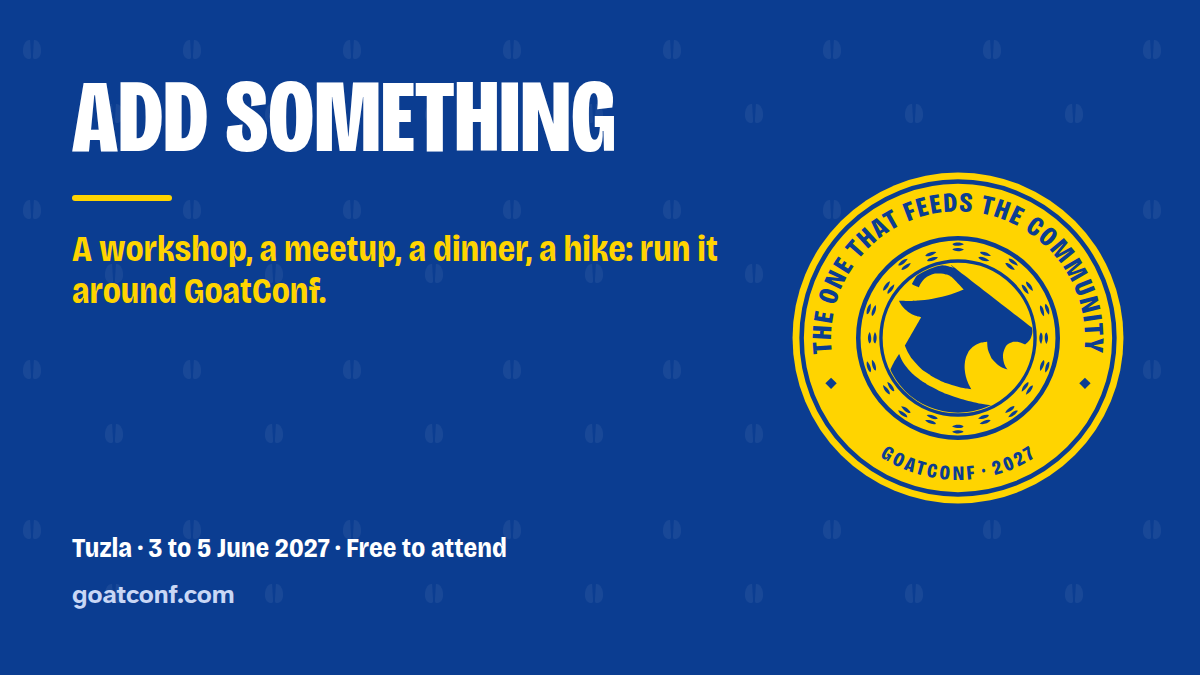
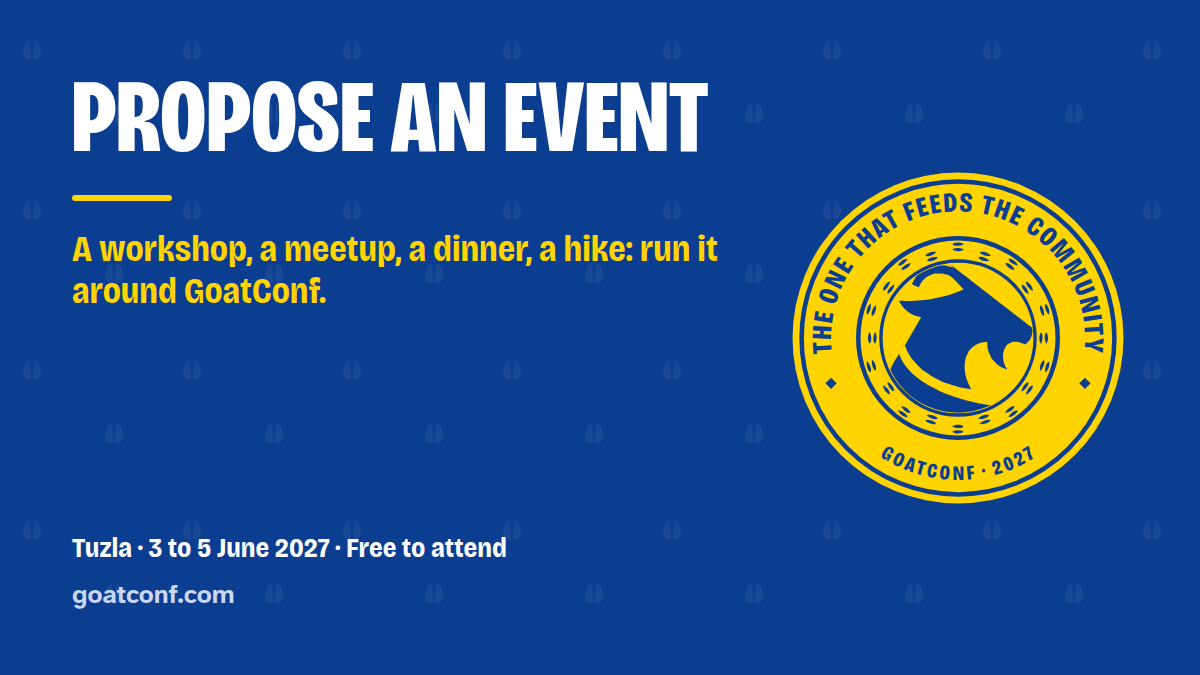
events: only accepted events are part of GoatConf; hackathons; "Propose an event"
The organiser accepts an event only if it follows the code of conduct
and the charter and fits the program. A record carries accepted: yes,
set by the organiser; only accepted events are listed on the events page,
the program, program.json and llms.txt, named "part of GoatConf 2027"
and run by their host. Hackathons are a kind of their own, organised
entirely by whoever proposes them. The add page, the charter, the home
page and the drumbeat say so, and "Add something" becomes "Propose an
event" everywhere, its share image included. The extension decision
has the amendment.

Source: sources/conversations/2026-10-12--org--accepted-events-and-hackathons.md.

Changed region(s): [[0.0617, 0.0933, 0.5858, 0.2489]]

diff --git a/files/site/add.html b/files/site/add.html
@@ -3,7 +3,7 @@
 <head>
 <meta charset="utf-8">
 <meta name="viewport" content="width=device-width, initial-scale=1">
-<title>Add something: GoatConf 2027</title>
+<title>Propose an event: GoatConf 2027</title>
 <meta name="description" content="Add a workshop, a meetup, a dinner, a walk or support around GoatConf 2027 in Tuzla, 3 to 5 June. You run it, GoatConf lists it.">
 <meta name="theme-color" content="#0b3d91">
 <link rel="canonical" href="https://goatconf.com/add.html">
@@ -12,7 +12,7 @@
 <!-- link preview -->
 <meta property="og:type" content="website">
 <meta property="og:site_name" content="GoatConf">
-<meta property="og:title" content="Add something: GoatConf 2027">
+<meta property="og:title" content="Propose an event: GoatConf 2027">
 <meta property="og:description" content="Add a workshop, a meetup, a dinner, a walk or support around GoatConf 2027 in Tuzla, 3 to 5 June. You run it, GoatConf lists it.">
 <meta property="og:url" content="https://goatconf.com/add.html">
 <meta property="og:image" content="https://goatconf.com/share/og.png">
@@ -55,11 +55,11 @@
 <!-- /topbar -->
 <header class="page-head">
   <img class="page-head__photo" src="img/city-old-town-aerial-paving.jpg" width="1375" height="696" alt="The old town from above: tiled roofs and a street paved in a red and blue mosaic" decoding="async">
-  <h1 class="sign">Add something</h1>
-  <p class="lede">A workshop, a meetup, a dinner, a walk, a corner for your community. You run it, GoatConf lists it and sends people your way.</p>
+  <h1 class="sign">Propose an event</h1>
+  <p class="lede">A workshop, a meetup, a hackathon, a dinner, a walk, or support for one named thing. You run it and pay for it; if the organiser accepts it, it becomes part of GoatConf 2027.</p>
 </header>
 <main id="main" class="prose">
-<p class="cta"><a class="button" data-form="add" href="https://docs.google.com/forms/d/e/1FAIpQLScZK2BJcsBY2W5lpSljaflGsPdimruLAfmK9MizR0EIcgWfXg/viewform">Add your event</a><span>Open now. It takes about ten minutes.</span></p>
+<p class="cta"><a class="button" data-form="add" href="https://docs.google.com/forms/d/e/1FAIpQLScZK2BJcsBY2W5lpSljaflGsPdimruLAfmK9MizR0EIcgWfXg/viewform">Propose your event</a><span>Open now. It takes about ten minutes.</span></p>
 <h2>What you can add</h2>
 <ul>
 <li><strong>A fringe event:</strong> an evening event around the talk days, such as a meetup, a dinner or a party.</li>
@@ -70,20 +70,21 @@
 <li><strong>Support:</strong> pay a supplier directly for one named thing. For example a speaker's flight or room, a round of coffee, the printing or a camera crew. Your logo goes on the <a href="supporters.html">supporters page</a>. If you paid a speaker's travel, it also goes on their profile. No money passes through the organiser. Every payment is listed in the <a href="budget.html">public budget</a>.</li>
 <li><strong>A podcast or a camera:</strong> bring your own and record. Podcasts are welcome in some of the rooms. GoatConf does not record the talks itself, so a crew, paid for by a supporter, is welcome too.</li>
 <li><strong>Hiring:</strong> meet the people who come.</li>
+<li><strong>A hackathon:</strong> you, your group or your company organise all of it: the room, the theme, the judging, any prizes and their costs, paid directly to suppliers. It follows the same rules as everything else, and may not collect attendees' data or recruit beyond what people opt into.</li>
 </ul>
 <h2>The rules</h2>
-<p>You run it and you pay for it. It follows the <a href="code-of-conduct.html">code of conduct</a> and the <a href="charter.html">charter</a>. Its name says it is run independently, for example "Rust night, a GoatConf fringe event". It takes place between about 25 May and 20 June 2027. If not, say why in the description.</p>
+<p>Not everything people propose becomes part of GoatConf. The organiser accepts what follows the <a href="code-of-conduct.html">code of conduct</a> and the <a href="charter.html">charter</a> and fits the program: its time, its place, who it is for and how it sits next to the talks. Only accepted events are part of GoatConf 2027, listed on the site and shared with the people who come. You run it and you pay for it, and its name says who runs it, for example "Rust night, part of GoatConf 2027". It takes place between about 25 May and 20 June 2027; if not, say why in the description. Anything not accepted may still happen, but not under GoatConf's name.</p>
 <h2>What happens next</h2>
 <ol>
 <li><strong>You fill in the form:</strong> the name, the kind, the host, where, when, the cost, how people join, who pays, a public contact and a short description.</li>
-<li><strong>The organiser checks it</strong> against the charter and the code of conduct, and writes back.</li>
-<li><strong>It goes on the site,</strong> on the page <a href="extensions.html">Added by the people who come</a>. If it is between 2 and 6 June, it also goes on the <a href="program.html">program</a>.</li>
+<li><strong>The organiser decides</strong> whether it becomes part of GoatConf, may ask for changes, and writes back either way.</li>
+<li><strong>If accepted, it goes on the site,</strong> on the page <a href="extensions.html">Added by the people who come</a>. If it is between 2 and 6 June, it also goes on the <a href="program.html">program</a>.</li>
 </ol>
 <p class="cta"><a class="button" data-form="add" href="https://docs.google.com/forms/d/e/1FAIpQLScZK2BJcsBY2W5lpSljaflGsPdimruLAfmK9MizR0EIcgWfXg/viewform">Add your event</a></p>
 </main>
 <footer class="footer">
   <p>GoatConf 2027, a free conference in Tuzla, Bosnia and Herzegovina, 3 to 5 June 2027. Organised by <a href="https://muhamed.at">Muhamed Isabegović</a>, with IPI Academy as host and partner.</p>
-  <p class="footer__links"><a href="index.html">Home</a> <a href="program.html">Program</a> <a href="speakers.html">Speakers</a> <a href="talk.html">Give a talk</a> <a href="add.html">Add something</a> <a href="register.html">Register</a> <a href="travel.html">Travel</a> <a href="supporters.html">Supporters</a> <a href="budget.html">Budget</a> <a href="charter.html">Charter</a> <a href="code-of-conduct.html">Code of conduct</a> <a href="brand.html">Brand</a> <a href="access.html">Accessibility</a> <a href="contact.html">Contact</a></p>
+  <p class="footer__links"><a href="index.html">Home</a> <a href="program.html">Program</a> <a href="speakers.html">Speakers</a> <a href="talk.html">Give a talk</a> <a href="add.html">Propose an event</a> <a href="register.html">Register</a> <a href="travel.html">Travel</a> <a href="supporters.html">Supporters</a> <a href="budget.html">Budget</a> <a href="charter.html">Charter</a> <a href="code-of-conduct.html">Code of conduct</a> <a href="brand.html">Brand</a> <a href="access.html">Accessibility</a> <a href="contact.html">Contact</a></p>
 </footer>
 <script src="album.js" defer></script>
 </body>

diff --git a/files/site/index.html b/files/site/index.html
@@ -75,7 +75,7 @@
     <p class="cover-sub">Two days of one-hour sessions in every room, with a full hour off after each. Then a day at the lakes. The people who come add the rest.</p>
     <div class="cover-actions">
       <p><a class="button button--cover" href="register.html">Register for free</a></p>
-      <p class="cover-links"><a class="go" href="talk.html">Propose a talk</a> <a class="go" href="add.html">Add something</a> <a class="go" href="program.html">See the program</a></p>
+      <p class="cover-links"><a class="go" href="talk.html">Propose a talk</a> <a class="go" href="add.html">Propose an event</a> <a class="go" href="program.html">See the program</a></p>
     </div>
   </div>
 
@@ -185,11 +185,11 @@
 </section>
 
 <section class="album-page wrap" id="add" aria-labelledby="add-title">
-  <h2 class="band" id="add-title">Add your own</h2>
+  <h2 class="band" id="add-title">Propose an event</h2>
   <div class="copy copy--wide">
-    <p>Anyone can add an event, like a meetup or a dinner. You run it and pay for it, under the <a href="charter.html">charter</a>. GoatConf lists it and sends people your way.</p>
+    <p>Anyone can propose an event, like a meetup, a hackathon or a dinner. You run it and pay for it. If the organiser accepts it, it becomes part of GoatConf 2027 and is shared with everyone who comes. It follows the <a href="charter.html">charter</a> and the code of conduct.</p>
   </div>
-  <ul class="slots slots--kinds" aria-label="Kinds of things you can add">
+  <ul class="slots slots--kinds" aria-label="Kinds of events you can propose">
     <li class="slot slot--kind"><svg class="ghost" aria-hidden="true" viewBox="0 0 124 100"><use href="#goat"/></svg><span class="num num--printed">28</span><strong>Fringe event</strong><span class="nameline" aria-hidden="true"></span><span class="stamp">Yours?</span></li>
     <li class="slot slot--kind"><svg class="ghost" aria-hidden="true" viewBox="0 0 124 100"><use href="#goat"/></svg><span class="num num--printed">29</span><strong>Workshop</strong><span class="nameline" aria-hidden="true"></span><span class="stamp">Yours?</span></li>
     <li class="slot slot--kind"><svg class="ghost" aria-hidden="true" viewBox="0 0 124 100"><use href="#goat"/></svg><span class="num num--printed">30</span><strong>Community hub</strong><span class="nameline" aria-hidden="true"></span><span class="stamp">Yours?</span></li>
@@ -199,7 +199,7 @@
     <li class="slot slot--kind"><svg class="ghost" aria-hidden="true" viewBox="0 0 124 100"><use href="#goat"/></svg><span class="num num--printed">34</span><strong>Hiring</strong><span class="nameline" aria-hidden="true"></span><span class="stamp">Yours?</span></li>
     <li class="slot slot--kind"><svg class="ghost" aria-hidden="true" viewBox="0 0 124 100"><use href="#goat"/></svg><span class="num num--printed">35</span><strong>Something else?</strong><span class="nameline" aria-hidden="true"></span><span class="stamp">Yours?</span></li>
   </ul>
-  <p class="copy"><a class="go go--ink" href="add.html">Add yours</a> <a class="go go--ink" href="extensions.html">See what people have added</a></p>
+  <p class="copy"><a class="go go--ink" href="add.html">Propose yours</a> <a class="go go--ink" href="extensions.html">See what people have added</a></p>
 </section>
 
 <section class="album-page wrap" id="money" aria-labelledby="money-title">
@@ -256,7 +256,7 @@
   <div class="wrap back-cover__inner">
     <p class="back-cover__mark"><img class="back-cover__coin" src="brand/coin.svg" width="44" height="44" alt="">GoatConf 2027</p>
     <p>A free conference in Tuzla, 3 to 5 June 2027, at goatconf.com. Organised by <a href="https://muhamed.at">Muhamed Isabegović</a>, with IPI Academy, Tuzla, as host and partner.</p>
-    <p class="back-cover__links"><a href="program.html">Program</a> <a href="speakers.html">Speakers</a> <a href="talk.html">Give a talk</a> <a href="add.html">Add something</a> <a href="register.html">Register</a> <a href="travel.html">Travel</a> <a href="supporters.html">Supporters</a> <a href="budget.html">The budget</a> <a href="charter.html">The charter</a> <a href="extensions.html">Events people add</a> <a href="code-of-conduct.html">The code of conduct</a> <a href="brand.html">Brand</a> <a href="access.html">Accessibility</a> <a href="contact.html">Contact</a></p>
+    <p class="back-cover__links"><a href="program.html">Program</a> <a href="speakers.html">Speakers</a> <a href="talk.html">Give a talk</a> <a href="add.html">Propose an event</a> <a href="register.html">Register</a> <a href="travel.html">Travel</a> <a href="supporters.html">Supporters</a> <a href="budget.html">The budget</a> <a href="charter.html">The charter</a> <a href="extensions.html">Events people add</a> <a href="code-of-conduct.html">The code of conduct</a> <a href="brand.html">Brand</a> <a href="access.html">Accessibility</a> <a href="contact.html">Contact</a></p>
   </div>
 </footer>
 

diff --git a/files/site/extensions.html b/files/site/extensions.html
@@ -4,7 +4,7 @@
 <meta charset="utf-8">
 <meta name="viewport" content="width=device-width, initial-scale=1">
 <title>Events people add: GoatConf 2027</title>
-<meta name="description" content="Workshops, meetups, walks and more that people add around GoatConf 2027 in Tuzla, each run independently by its host.">
+<meta name="description" content="Workshops, meetups, hackathons, walks and more that the organiser has accepted as part of GoatConf 2027 in Tuzla, each run by its host.">
 <meta name="theme-color" content="#0b3d91">
 <link rel="canonical" href="https://goatconf.com/extensions.html">
 <link rel="icon" href="favicon.svg" type="image/svg+xml">
@@ -13,7 +13,7 @@
 <meta property="og:type" content="website">
 <meta property="og:site_name" content="GoatConf">
 <meta property="og:title" content="Events people add: GoatConf 2027">
-<meta property="og:description" content="Workshops, meetups, walks and more that people add around GoatConf 2027 in Tuzla, each run independently by its host.">
+<meta property="og:description" content="Workshops, meetups, hackathons, walks and more that the organiser has accepted as part of GoatConf 2027 in Tuzla, each run by its host.">
 <meta property="og:url" content="https://goatconf.com/extensions.html">
 <meta property="og:image" content="https://goatconf.com/share/og.png">
 <meta property="og:image:width" content="1200">
@@ -57,19 +57,19 @@
 <header class="page-head">
   <img class="page-head__photo" src="img/city-old-town-aerial-paving.jpg" width="1375" height="696" alt="The old town from above: tiled roofs and a street paved in a red and blue mosaic" decoding="async">
   <h1 class="sign">Added by the people who come</h1>
-  <p class="lede">Workshops, meetups and events around the talk days, each run independently by its host.</p>
+  <p class="lede">Workshops, meetups, hackathons and events around the talk days, accepted as part of GoatConf 2027 and run by their hosts.</p>
 </header>
 <main id="main" class="prose">
-<p>Each host runs their own event and pays for it. GoatConf lists it and sends people their way. Every event here has accepted the <a href="charter.html">charter</a> and the <a href="code-of-conduct.html">code of conduct</a>.</p>
+<p>Every event here is part of GoatConf 2027: the organiser accepted it, and it follows the <a href="charter.html">charter</a> and the <a href="code-of-conduct.html">code of conduct</a>. Each host runs their own event and pays for it directly. Not everything people propose is accepted, and events that are not accepted are not GoatConf's.</p>
 <div class="ledger-empty">
   <p><strong>No events yet.</strong> The first one could be yours: a workshop, a meetup, a dinner, a city walk, a hike, a corner for your community.</p>
 </div>
-<h2>Add yours</h2>
-<p>Fill in the short form. The organiser checks it before it goes up. <a href="add.html">Add yours</a></p>
+<h2>Propose yours</h2>
+<p>Propose it through the short form. The organiser decides whether it becomes part of GoatConf. <a href="add.html">Propose yours</a></p>
 </main>
 <footer class="footer">
   <p>GoatConf 2027, a free conference in Tuzla, Bosnia and Herzegovina, 3 to 5 June 2027. Organised by <a href="https://muhamed.at">Muhamed Isabegović</a>, with IPI Academy as host and partner.</p>
-  <p class="footer__links"><a href="index.html">Home</a> <a href="program.html">Program</a> <a href="speakers.html">Speakers</a> <a href="talk.html">Give a talk</a> <a href="add.html">Add something</a> <a href="register.html">Register</a> <a href="travel.html">Travel</a> <a href="supporters.html">Supporters</a> <a href="budget.html">Budget</a> <a href="charter.html">Charter</a> <a href="code-of-conduct.html">Code of conduct</a> <a href="brand.html">Brand</a> <a href="access.html">Accessibility</a> <a href="contact.html">Contact</a></p>
+  <p class="footer__links"><a href="index.html">Home</a> <a href="program.html">Program</a> <a href="speakers.html">Speakers</a> <a href="talk.html">Give a talk</a> <a href="add.html">Propose an event</a> <a href="register.html">Register</a> <a href="travel.html">Travel</a> <a href="supporters.html">Supporters</a> <a href="budget.html">Budget</a> <a href="charter.html">Charter</a> <a href="code-of-conduct.html">Code of conduct</a> <a href="brand.html">Brand</a> <a href="access.html">Accessibility</a> <a href="contact.html">Contact</a></p>
 </footer>
 <script src="album.js" defer></script>
 </body>

diff --git a/files/site/program.html b/files/site/program.html
@@ -149,7 +149,7 @@
       <li class="slot slot--session"><span class="num num--printed">28</span><span class="room-name">The old student club</span><strong>Open</strong><small>Waiting for a talk, a panel or a workshop.</small><span class="stamp">Yours?</span></li>
     </ul>
   </li>
-<li class="breakrow"><span class="breakrow__time">17:00</span>The day ends. The evening is yours, or someone else's fringe event.</li>
+<li class="breakrow"><span class="breakrow__time">17:00</span>The day ends. The evening is yours, or one of the events people add.</li>
   </ol>
 </section>
 <section class="album-page wrap day" id="2027-06-04" aria-labelledby="h-2027-06-04">
@@ -211,7 +211,7 @@
       <li class="slot slot--session"><span class="num num--printed">56</span><span class="room-name">The old student club</span><strong>Open</strong><small>Waiting for a talk, a panel or a workshop.</small><span class="stamp">Yours?</span></li>
     </ul>
   </li>
-<li class="breakrow"><span class="breakrow__time">16:30</span>The day ends. The evening is yours, or someone else's fringe event.</li>
+<li class="breakrow"><span class="breakrow__time">16:30</span>The day ends. The evening is yours, or one of the events people add.</li>
   </ol>
 </section>
 <section class="album-page wrap day" id="2027-06-05" aria-labelledby="h-sat">
@@ -224,16 +224,16 @@
 <li class="slot"><span class="num num--printed">59</span><strong>A walk or a hike</strong><small>The old town, the salt story, the hills above Tuzla.</small><span class="stamp">Yours?</span></li>
 <li class="slot"><span class="num num--printed">60</span><strong>Something else?</strong><small>A meetup, a dinner, a corner for your community.</small><span class="stamp">Yours?</span></li>
   </ul>
-  <p class="copy"><a class="go go--ink" href="add.html">Add something to Saturday</a></p>
+  <p class="copy"><a class="go go--ink" href="add.html">Propose something for Saturday</a></p>
 </section>
 <section class="album-page wrap" aria-labelledby="h-around">
   <h2 class="band" id="h-around">Around the talks</h2>
-  <p class="ledger-empty">No evening events or workshops yet. Want to run a workshop the evening before, or a dinner after the talks? <a href="add.html">Add yours</a>.</p>
+  <p class="ledger-empty">No evening events or workshops yet. Want to run a workshop the evening before, or a dinner after the talks? <a href="add.html">Propose yours</a>.</p>
 </section>
 </main>
 <footer class="footer">
   <p>GoatConf 2027, a free conference in Tuzla, Bosnia and Herzegovina, 3 to 5 June 2027. Organised by <a href="https://muhamed.at">Muhamed Isabegović</a>, with IPI Academy as host and partner.</p>
-  <p class="footer__links"><a href="index.html">Home</a> <a href="program.html">Program</a> <a href="speakers.html">Speakers</a> <a href="talk.html">Give a talk</a> <a href="add.html">Add something</a> <a href="register.html">Register</a> <a href="travel.html">Travel</a> <a href="supporters.html">Supporters</a> <a href="budget.html">Budget</a> <a href="charter.html">Charter</a> <a href="code-of-conduct.html">Code of conduct</a> <a href="brand.html">Brand</a> <a href="access.html">Accessibility</a> <a href="contact.html">Contact</a></p>
+  <p class="footer__links"><a href="index.html">Home</a> <a href="program.html">Program</a> <a href="speakers.html">Speakers</a> <a href="talk.html">Give a talk</a> <a href="add.html">Propose an event</a> <a href="register.html">Register</a> <a href="travel.html">Travel</a> <a href="supporters.html">Supporters</a> <a href="budget.html">Budget</a> <a href="charter.html">Charter</a> <a href="code-of-conduct.html">Code of conduct</a> <a href="brand.html">Brand</a> <a href="access.html">Accessibility</a> <a href="contact.html">Contact</a></p>
 </footer>
 <script src="album.js" defer></script>
 </body>

diff --git a/files/site/charter.html b/files/site/charter.html
@@ -76,15 +76,15 @@
 <h2>The four rules for events people add</h2>
 <ol>
 <li><strong>The core days never depend on an added event.</strong> If a host, a supporter or a venue falls through, the core days go on unchanged.</li>
-<li><strong>Checked before it is listed.</strong> The organiser checks every event against this charter and the code of conduct, and decides what is listed.</li>
-<li><strong>Honest names.</strong> An added event is "your name, a GoatConf fringe event", never "GoatConf presents". Each one says plainly that it is run independently.</li>
+<li><strong>Accepted, or not GoatConf's.</strong> The organiser accepts an event only if it follows this charter and the code of conduct and fits the program. Only accepted events are part of GoatConf and shared with the people who come.</li>
+<li><strong>Honest names.</strong> An accepted event is "your name, part of GoatConf 2027", run by its host, never "GoatConf presents".</li>
 <li><strong>The host carries its own costs and risks.</strong> GoatConf lends its audience and its calendar, not money.</li>
 </ol>
-<p>Want to add something? See <a href="extensions.html">what people have added</a> and <a href="add.html">add yours</a>.</p>
+<p>Want to run something? See <a href="extensions.html">what people have added</a> and <a href="add.html">propose yours</a>.</p>
 </main>
 <footer class="footer">
   <p>GoatConf 2027, a free conference in Tuzla, Bosnia and Herzegovina, 3 to 5 June 2027. Organised by <a href="https://muhamed.at">Muhamed Isabegović</a>, with IPI Academy as host and partner.</p>
-  <p class="footer__links"><a href="index.html">Home</a> <a href="program.html">Program</a> <a href="speakers.html">Speakers</a> <a href="talk.html">Give a talk</a> <a href="add.html">Add something</a> <a href="register.html">Register</a> <a href="travel.html">Travel</a> <a href="supporters.html">Supporters</a> <a href="budget.html">Budget</a> <a href="charter.html">Charter</a> <a href="code-of-conduct.html">Code of conduct</a> <a href="brand.html">Brand</a> <a href="access.html">Accessibility</a> <a href="contact.html">Contact</a></p>
+  <p class="footer__links"><a href="index.html">Home</a> <a href="program.html">Program</a> <a href="speakers.html">Speakers</a> <a href="talk.html">Give a talk</a> <a href="add.html">Propose an event</a> <a href="register.html">Register</a> <a href="travel.html">Travel</a> <a href="supporters.html">Supporters</a> <a href="budget.html">Budget</a> <a href="charter.html">Charter</a> <a href="code-of-conduct.html">Code of conduct</a> <a href="brand.html">Brand</a> <a href="access.html">Accessibility</a> <a href="contact.html">Contact</a></p>
 </footer>
 <script src="album.js" defer></script>
 </body>

diff --git a/files/site/supporters.html b/files/site/supporters.html
@@ -70,12 +70,12 @@
 </section>
 <section class="album-page wrap" aria-labelledby="h-become">
   <h2 class="band" id="h-become">Fund a speaker's travel</h2>
-  <p class="copy copy--wide">Pick a speaker, or fund travel grants: tickets or rooms for speakers who ask for help. You pay the airline or hotel directly. Asking never affects whether a session is picked. Your logo shows on this page and on the profile of every speaker whose travel you covered. Tell us through the <a href="add.html">add-something form</a>. Choose Support.</p>
+  <p class="copy copy--wide">Pick a speaker, or fund travel grants: tickets or rooms for speakers who ask for help. You pay the airline or hotel directly. Asking never affects whether a session is picked. Your logo shows on this page and on the profile of every speaker whose travel you covered. Tell us through the <a href="add.html">proposal form</a>. Choose Support.</p>
 </section>
 </main>
 <footer class="footer">
   <p>GoatConf 2027, a free conference in Tuzla, Bosnia and Herzegovina, 3 to 5 June 2027. Organised by <a href="https://muhamed.at">Muhamed Isabegović</a>, with IPI Academy as host and partner.</p>
-  <p class="footer__links"><a href="index.html">Home</a> <a href="program.html">Program</a> <a href="speakers.html">Speakers</a> <a href="talk.html">Give a talk</a> <a href="add.html">Add something</a> <a href="register.html">Register</a> <a href="travel.html">Travel</a> <a href="supporters.html">Supporters</a> <a href="budget.html">Budget</a> <a href="charter.html">Charter</a> <a href="code-of-conduct.html">Code of conduct</a> <a href="brand.html">Brand</a> <a href="access.html">Accessibility</a> <a href="contact.html">Contact</a></p>
+  <p class="footer__links"><a href="index.html">Home</a> <a href="program.html">Program</a> <a href="speakers.html">Speakers</a> <a href="talk.html">Give a talk</a> <a href="add.html">Propose an event</a> <a href="register.html">Register</a> <a href="travel.html">Travel</a> <a href="supporters.html">Supporters</a> <a href="budget.html">Budget</a> <a href="charter.html">Charter</a> <a href="code-of-conduct.html">Code of conduct</a> <a href="brand.html">Brand</a> <a href="access.html">Accessibility</a> <a href="contact.html">Contact</a></p>
 </footer>
 <script src="album.js" defer></script>
 </body>

diff --git a/files/site/contact.html b/files/site/contact.html
@@ -66,13 +66,13 @@
 <h2>Other ways in</h2>
 <ul>
 <li><strong>To speak:</strong> <a href="talk.html">propose a session</a>.</li>
-<li><strong>To add an event or support GoatConf:</strong> use the <a href="add.html">add-something form</a>.</li>
+<li><strong>To add an event or support GoatConf:</strong> use the <a href="add.html">proposal form</a>.</li>
 <li><strong>To come:</strong> <a href="register.html">register for free</a>.</li>
 </ul>
 </main>
 <footer class="footer">
   <p>GoatConf 2027, a free conference in Tuzla, Bosnia and Herzegovina, 3 to 5 June 2027. Organised by <a href="https://muhamed.at">Muhamed Isabegović</a>, with IPI Academy as host and partner.</p>
-  <p class="footer__links"><a href="index.html">Home</a> <a href="program.html">Program</a> <a href="speakers.html">Speakers</a> <a href="talk.html">Give a talk</a> <a href="add.html">Add something</a> <a href="register.html">Register</a> <a href="travel.html">Travel</a> <a href="supporters.html">Supporters</a> <a href="budget.html">Budget</a> <a href="charter.html">Charter</a> <a href="code-of-conduct.html">Code of conduct</a> <a href="brand.html">Brand</a> <a href="access.html">Accessibility</a> <a href="contact.html">Contact</a></p>
+  <p class="footer__links"><a href="index.html">Home</a> <a href="program.html">Program</a> <a href="speakers.html">Speakers</a> <a href="talk.html">Give a talk</a> <a href="add.html">Propose an event</a> <a href="register.html">Register</a> <a href="travel.html">Travel</a> <a href="supporters.html">Supporters</a> <a href="budget.html">Budget</a> <a href="charter.html">Charter</a> <a href="code-of-conduct.html">Code of conduct</a> <a href="brand.html">Brand</a> <a href="access.html">Accessibility</a> <a href="contact.html">Contact</a></p>
 </footer>
 <script src="album.js" defer></script>
 </body>

diff --git a/files/site/register.html b/files/site/register.html
@@ -77,7 +77,7 @@
 </main>
 <footer class="footer">
   <p>GoatConf 2027, a free conference in Tuzla, Bosnia and Herzegovina, 3 to 5 June 2027. Organised by <a href="https://muhamed.at">Muhamed Isabegović</a>, with IPI Academy as host and partner.</p>
-  <p class="footer__links"><a href="index.html">Home</a> <a href="program.html">Program</a> <a href="speakers.html">Speakers</a> <a href="talk.html">Give a talk</a> <a href="add.html">Add something</a> <a href="register.html">Register</a> <a href="travel.html">Travel</a> <a href="supporters.html">Supporters</a> <a href="budget.html">Budget</a> <a href="charter.html">Charter</a> <a href="code-of-conduct.html">Code of conduct</a> <a href="brand.html">Brand</a> <a href="access.html">Accessibility</a> <a href="contact.html">Contact</a></p>
+  <p class="footer__links"><a href="index.html">Home</a> <a href="program.html">Program</a> <a href="speakers.html">Speakers</a> <a href="talk.html">Give a talk</a> <a href="add.html">Propose an event</a> <a href="register.html">Register</a> <a href="travel.html">Travel</a> <a href="supporters.html">Supporters</a> <a href="budget.html">Budget</a> <a href="charter.html">Charter</a> <a href="code-of-conduct.html">Code of conduct</a> <a href="brand.html">Brand</a> <a href="access.html">Accessibility</a> <a href="contact.html">Contact</a></p>
 </footer>
 <script id="luma-checkout" src="https://embed.lu.ma/checkout-button.js"></script>
 <script src="album.js" defer></script>

diff --git a/files/site/budget.html b/files/site/budget.html
@@ -75,7 +75,7 @@
 </main>
 <footer class="footer">
   <p>GoatConf 2027, a free conference in Tuzla, Bosnia and Herzegovina, 3 to 5 June 2027. Organised by <a href="https://muhamed.at">Muhamed Isabegović</a>, with IPI Academy as host and partner.</p>
-  <p class="footer__links"><a href="index.html">Home</a> <a href="program.html">Program</a> <a href="speakers.html">Speakers</a> <a href="talk.html">Give a talk</a> <a href="add.html">Add something</a> <a href="register.html">Register</a> <a href="travel.html">Travel</a> <a href="supporters.html">Supporters</a> <a href="budget.html">Budget</a> <a href="charter.html">Charter</a> <a href="code-of-conduct.html">Code of conduct</a> <a href="brand.html">Brand</a> <a href="access.html">Accessibility</a> <a href="contact.html">Contact</a></p>
+  <p class="footer__links"><a href="index.html">Home</a> <a href="program.html">Program</a> <a href="speakers.html">Speakers</a> <a href="talk.html">Give a talk</a> <a href="add.html">Propose an event</a> <a href="register.html">Register</a> <a href="travel.html">Travel</a> <a href="supporters.html">Supporters</a> <a href="budget.html">Budget</a> <a href="charter.html">Charter</a> <a href="code-of-conduct.html">Code of conduct</a> <a href="brand.html">Brand</a> <a href="access.html">Accessibility</a> <a href="contact.html">Contact</a></p>
 </footer>
 <script src="ledger.js" defer></script>
 <script src="album.js" defer></script>

diff --git a/files/site/talk.html b/files/site/talk.html
@@ -103,7 +103,7 @@
 </main>
 <footer class="footer">
   <p>GoatConf 2027, a free conference in Tuzla, Bosnia and Herzegovina, 3 to 5 June 2027. Organised by <a href="https://muhamed.at">Muhamed Isabegović</a>, with IPI Academy as host and partner.</p>
-  <p class="footer__links"><a href="index.html">Home</a> <a href="program.html">Program</a> <a href="speakers.html">Speakers</a> <a href="talk.html">Give a talk</a> <a href="add.html">Add something</a> <a href="register.html">Register</a> <a href="travel.html">Travel</a> <a href="supporters.html">Supporters</a> <a href="budget.html">Budget</a> <a href="charter.html">Charter</a> <a href="code-of-conduct.html">Code of conduct</a> <a href="brand.html">Brand</a> <a href="access.html">Accessibility</a> <a href="contact.html">Contact</a></p>
+  <p class="footer__links"><a href="index.html">Home</a> <a href="program.html">Program</a> <a href="speakers.html">Speakers</a> <a href="talk.html">Give a talk</a> <a href="add.html">Propose an event</a> <a href="register.html">Register</a> <a href="travel.html">Travel</a> <a href="supporters.html">Supporters</a> <a href="budget.html">Budget</a> <a href="charter.html">Charter</a> <a href="code-of-conduct.html">Code of conduct</a> <a href="brand.html">Brand</a> <a href="access.html">Accessibility</a> <a href="contact.html">Contact</a></p>
 </footer>
 <script src="album.js" defer></script>
 </body>

diff --git a/files/site/travel.html b/files/site/travel.html
@@ -149,7 +149,7 @@
 </main>
 <footer class="footer">
   <p>GoatConf 2027, a free conference in Tuzla, Bosnia and Herzegovina, 3 to 5 June 2027. Organised by <a href="https://muhamed.at">Muhamed Isabegović</a>, with IPI Academy as host and partner.</p>
-  <p class="footer__links"><a href="index.html">Home</a> <a href="program.html">Program</a> <a href="speakers.html">Speakers</a> <a href="talk.html">Give a talk</a> <a href="add.html">Add something</a> <a href="register.html">Register</a> <a href="travel.html">Travel</a> <a href="supporters.html">Supporters</a> <a href="budget.html">Budget</a> <a href="charter.html">Charter</a> <a href="code-of-conduct.html">Code of conduct</a> <a href="brand.html">Brand</a> <a href="access.html">Accessibility</a> <a href="contact.html">Contact</a></p>
+  <p class="footer__links"><a href="index.html">Home</a> <a href="program.html">Program</a> <a href="speakers.html">Speakers</a> <a href="talk.html">Give a talk</a> <a href="add.html">Propose an event</a> <a href="register.html">Register</a> <a href="travel.html">Travel</a> <a href="supporters.html">Supporters</a> <a href="budget.html">Budget</a> <a href="charter.html">Charter</a> <a href="code-of-conduct.html">Code of conduct</a> <a href="brand.html">Brand</a> <a href="access.html">Accessibility</a> <a href="contact.html">Contact</a></p>
 </footer>
 <script src="album.js" defer></script>
 </body>

diff --git a/files/site/access.html b/files/site/access.html
@@ -87,7 +87,7 @@
 </main>
 <footer class="footer">
   <p>GoatConf 2027, a free conference in Tuzla, Bosnia and Herzegovina, 3 to 5 June 2027. Organised by <a href="https://muhamed.at">Muhamed Isabegović</a>, with IPI Academy as host and partner.</p>
-  <p class="footer__links"><a href="index.html">Home</a> <a href="program.html">Program</a> <a href="speakers.html">Speakers</a> <a href="talk.html">Give a talk</a> <a href="add.html">Add something</a> <a href="register.html">Register</a> <a href="travel.html">Travel</a> <a href="supporters.html">Supporters</a> <a href="budget.html">Budget</a> <a href="charter.html">Charter</a> <a href="code-of-conduct.html">Code of conduct</a> <a href="brand.html">Brand</a> <a href="access.html">Accessibility</a> <a href="contact.html">Contact</a></p>
+  <p class="footer__links"><a href="index.html">Home</a> <a href="program.html">Program</a> <a href="speakers.html">Speakers</a> <a href="talk.html">Give a talk</a> <a href="add.html">Propose an event</a> <a href="register.html">Register</a> <a href="travel.html">Travel</a> <a href="supporters.html">Supporters</a> <a href="budget.html">Budget</a> <a href="charter.html">Charter</a> <a href="code-of-conduct.html">Code of conduct</a> <a href="brand.html">Brand</a> <a href="access.html">Accessibility</a> <a href="contact.html">Contact</a></p>
 </footer>
 <script src="album.js" defer></script>
 </body>
